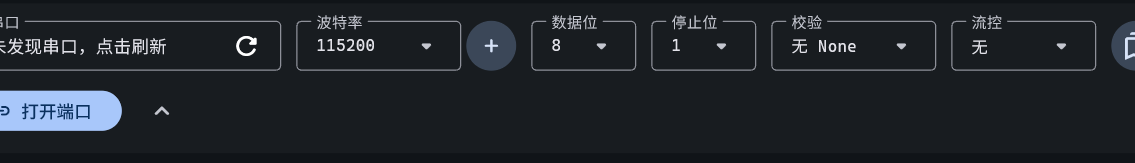
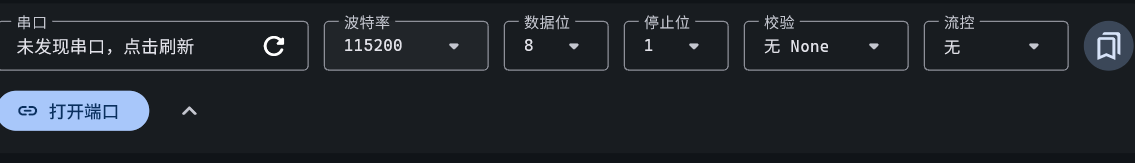
feat(ui): move the custom baud-rate entry into the baud dropdown
- Add an optional custom action to the reusable popup field, rendered as a sticky footer below a scrollable option list.

- Remove the separate + button from the port configuration.

- Update the widget test and README screenshots.

diff --git a/lib/screens/workbench_screen.dart b/lib/screens/workbench_screen.dart
@@ -3188,36 +3188,34 @@ class _WorkbenchScreenState extends State<WorkbenchScreen>
 
   Widget _selectField(String label, String selected, List<String> options,
           ValueChanged<String> onChanged,
-          {double width = 132}) =>
+          {double width = 132,
+          double? menuWidth,
+          VoidCallback? onAddCustom,
+          String addCustomLabel = '添加自定义…'}) =>
       SizedBox(
         width: width,
         child: _JanusPopupField<String>(
           width: width,
+          menuWidth: menuWidth,
           label: label,
           value: selected,
           options: options,
           textOf: (option) => option,
           useMono: true,
+          onAddCustom: onAddCustom,
+          addCustomLabel: addCustomLabel,
           onChanged: _connected || _connecting ? null : onChanged,
         ),
       );
 
-  Widget _baudRateField() => Row(
-        mainAxisSize: MainAxisSize.min,
-        children: [
-          _selectField('波特率', _baudRate, _baudRateOptions,
-              (value) => unawaited(_selectBaudRate(value))),
-          const SizedBox(width: 4),
-          Tooltip(
-            message: '添加自定义波特率',
-            child: IconButton.filledTonal(
-              onPressed: _connected || _connecting
-                  ? null
-                  : () => unawaited(_addCustomBaudRate()),
-              icon: const Icon(Icons.add_rounded, size: 18),
-            ),
-          ),
-        ],
+  Widget _baudRateField() => _selectField(
+        '波特率',
+        _baudRate,
+        _baudRateOptions,
+        (value) => unawaited(_selectBaudRate(value)),
+        menuWidth: 220,
+        onAddCustom: () => unawaited(_addCustomBaudRate()),
+        addCustomLabel: '添加自定义波特率…',
       );
 
   void _clearLog() {
@@ -5290,9 +5288,13 @@ class _JanusPopupField<T> extends StatelessWidget {
     required this.onChanged,
     this.iconOf,
     this.useMono = false,
+    this.menuWidth,
+    this.onAddCustom,
+    this.addCustomLabel = '添加自定义…',
   });
 
   final double width;
+  final double? menuWidth;
   final String label;
   final T value;
   final List<T> options;
@@ -5300,6 +5302,8 @@ class _JanusPopupField<T> extends StatelessWidget {
   final IconData? Function(T value)? iconOf;
   final ValueChanged<T>? onChanged;
   final bool useMono;
+  final VoidCallback? onAddCustom;
+  final String addCustomLabel;
 
   Widget? _leadingIcon(T option) {
     final icon = iconOf?.call(option);
@@ -5316,21 +5320,45 @@ class _JanusPopupField<T> extends StatelessWidget {
       fontSize: 13,
     );
     return MenuAnchor(
-      style: _janusMenuSurfaceStyle(scheme, width: width),
+      style: _janusMenuSurfaceStyle(scheme, width: menuWidth ?? width),
       crossAxisUnconstrained: false,
       menuChildren: [
-        for (final option in options)
-          MenuItemButton(
-            style: _janusMenuItemStyle(
-              scheme,
-              selected: option == value,
+        ConstrainedBox(
+          constraints: const BoxConstraints(maxHeight: 320),
+          child: SingleChildScrollView(
+            primary: false,
+            child: Column(
+              mainAxisSize: MainAxisSize.min,
+              children: [
+                for (final option in options)
+                  MenuItemButton(
+                    style: _janusMenuItemStyle(
+                      scheme,
+                      selected: option == value,
+                    ),
+                    clipBehavior: Clip.antiAlias,
+                    onPressed: enabled ? () => onChanged!(option) : null,
+                    leadingIcon: _leadingIcon(option),
+                    child: Text(textOf(option),
+                        maxLines: 1,
+                        overflow: TextOverflow.ellipsis,
+                        style: textStyle),
+                  ),
+              ],
             ),
+          ),
+        ),
+        if (onAddCustom != null) ...[
+          const Divider(height: 1),
+          MenuItemButton(
+            style: _janusMenuItemStyle(scheme),
             clipBehavior: Clip.antiAlias,
-            onPressed: enabled ? () => onChanged!(option) : null,
-            leadingIcon: _leadingIcon(option),
-            child: Text(textOf(option),
+            onPressed: enabled ? onAddCustom : null,
+            leadingIcon: const Icon(Icons.add_rounded),
+            child: Text(addCustomLabel,
                 maxLines: 1, overflow: TextOverflow.ellipsis, style: textStyle),
           ),
+        ],
       ],
       builder: (context, controller, child) => SizedBox(
         width: width,

diff --git a/test/widget_test.dart b/test/widget_test.dart
@@ -278,7 +278,11 @@ void main() {
       (tester) async {
     await tester.pumpWidget(const JanusApp());
 
-    await tester.tap(find.byTooltip('添加自定义波特率'));
+    await tester.tap(find.text('115200').first);
+    await tester.pumpAndSettle();
+    await tester.ensureVisible(find.text('添加自定义波特率…'));
+    await tester.pumpAndSettle();
+    await tester.tap(find.text('添加自定义波特率…'));
     await tester.pumpAndSettle();
     final dialogSurface = tester.getRect(
       find.byKey(const ValueKey('container-transform-surface')).last,

diff --git a/README.md b/README.md
@@ -75,7 +75,7 @@ JANUS 把日常串口调试拆成四件互相衔接的事：
 ### 连接与线路控制
 
 - 扫描 Windows COM 口，显示端口名、设备描述、USB VID/PID 与硬件 ID。
-- 波特率支持常见值与自定义输入；数据位 5–8；停止位 1/2；校验 无 / 奇 / 偶；流控 无 / RTS-CTS / XON-XOFF。
+- 波特率支持常见值与自定义输入（自定义入口位于波特率下拉底部）；数据位 5–8；停止位 1/2；校验 无 / 奇 / 偶；流控 无 / RTS-CTS / XON-XOFF。
 - 打开/关闭端口、连接状态实时反馈、收发字节统计。
 - 已连接时切换 **DTR / RTS**，发送 **Break**（当前界面固定 250 ms）。
 - 异常断开后可选择按当前参数 **自动重连**。

diff --git a/CHANGELOG.md b/CHANGELOG.md
@@ -11,6 +11,7 @@ and this project follows [Semantic Versioning](https://semver.org/spec/v2.0.0.ht
 
 - The bottom port summary is now red while disconnected and turns green only after a successful connection.
 - Status-bar metrics and the build identity now render as capsule pills.
+- The custom baud-rate entry now lives at the bottom of the baud-rate dropdown instead of a separate + button.
 
 ### Documentation
 
